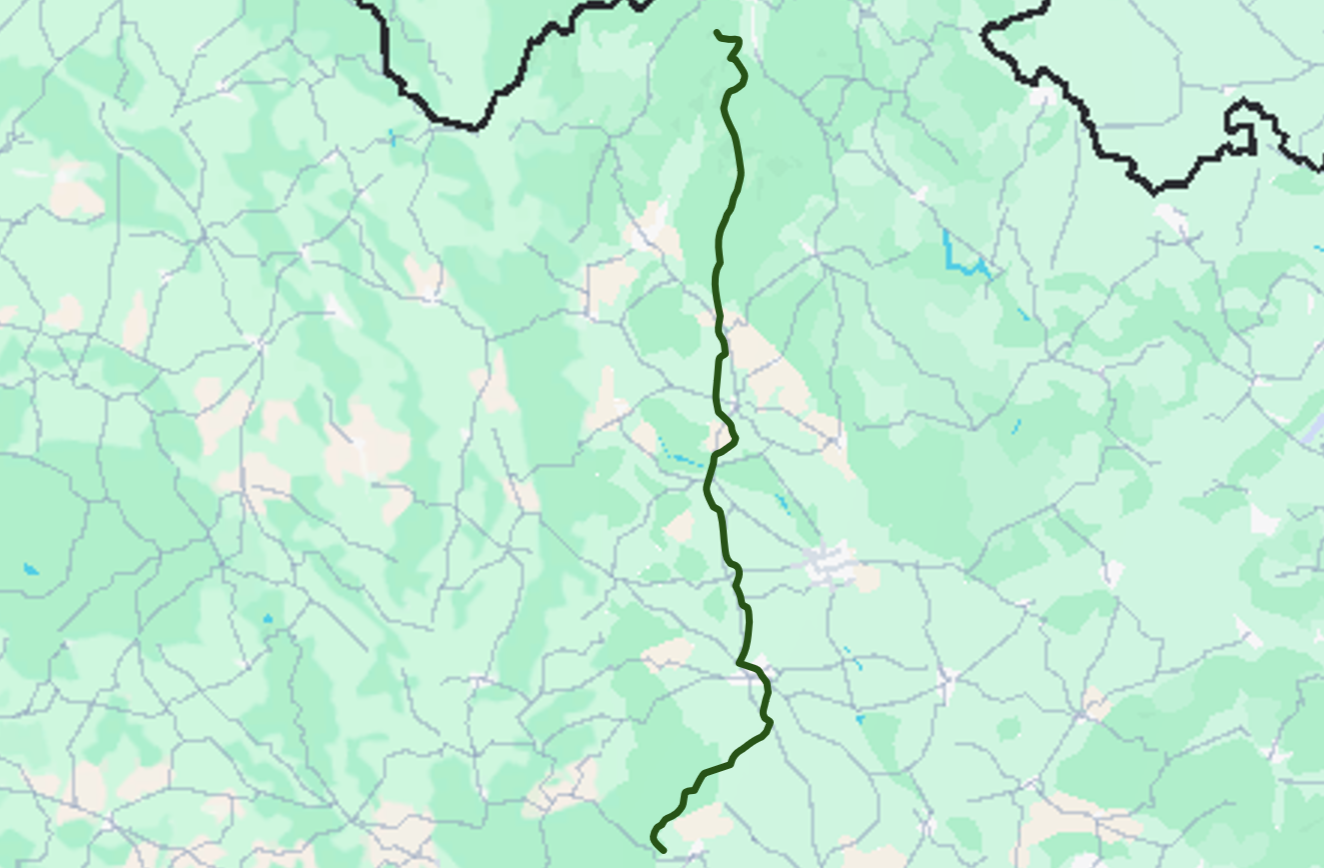
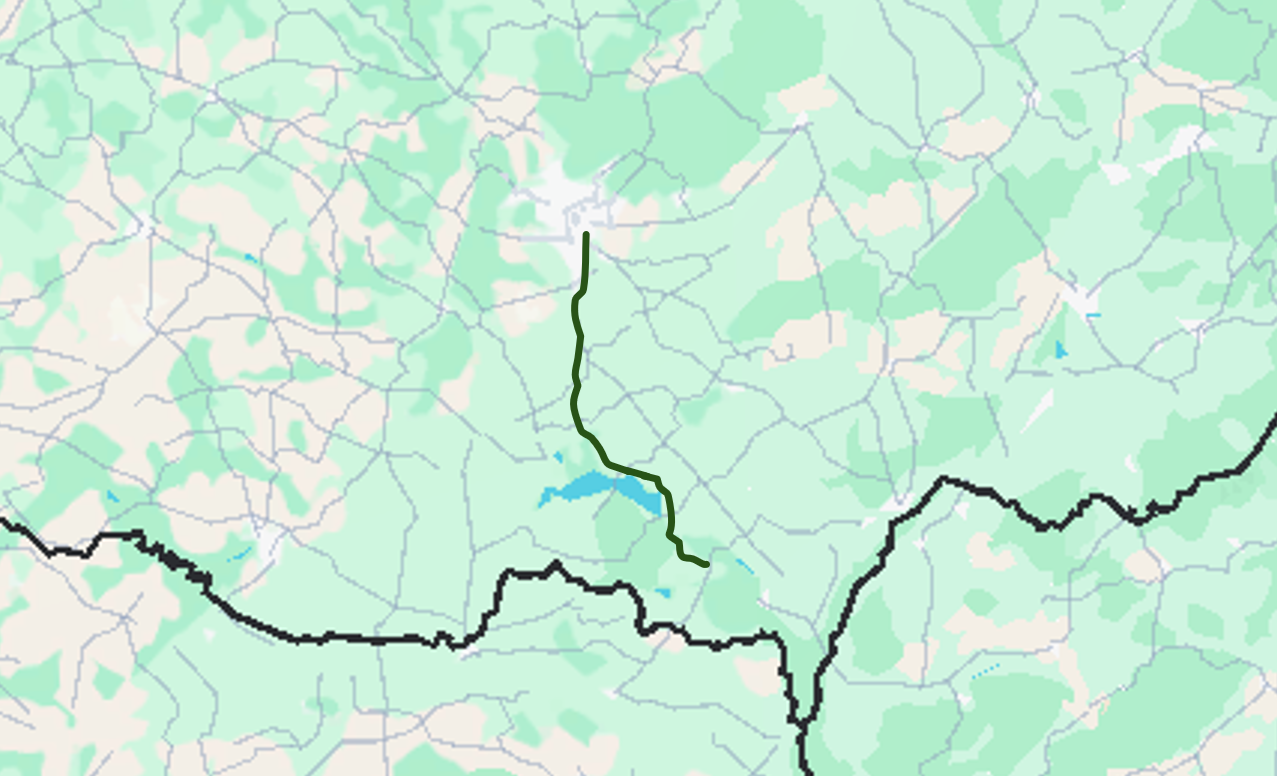
Velký změny přicházejí **šílené**
- Nový font, větší fontová kompatibilita
- Přidána navigace cestou
- Ještěd byl zaměněn za Zámek Lednice
- Odstraněny styly, které k ničemu nebyly přiřazeny
- Přidáno více fotografií z místa/trasy
- Navigaci lze spustit přes Start button u místa
- Ještě něco, ale už nevím

diff --git a/info_misto.html b/info_misto.html
@@ -21,39 +21,41 @@
 
         <div class="content content-full">
             <div class="mistoFotka">
-                <img src="icons/Ještěd.jpg" class="mistoFotkaObj">
-                <img src="icons/Ještěd.jpg" class="mistoFotkaObj YFlipped">
+                <img src="icons/Lednice.jpg" class="mistoFotkaObj">
             </div>
             <div class="mistoContent">
-                <div class="mistoNazev">Ještěd</div>
+                <div class="mistoNazev">Zámek Lednice</div>
                 <div class="mistoPopis">
-                    Ještěd je výrazná dominanta u Liberce s unikátním televizním vysílačem a hotelem, oceněným prestižní architektonickou cenou. 
-                    Stavba, dílo Karla Hubáčka, se stala symbolem města i celého regionu. 
-                    Z vrcholu se otevírají krásné výhledy na Liberec, Jizerské hory i Krkonoše. Ještěd je oblíbeným cílem turistů po celý rok, v létě pro pěší a cyklistiku, v zimě pro lyžování a zimní sporty.
+                    Státní zámek Lednice je vrcholnou ukázkou anglické novogotiky a je na seznamu kulturních památek UNESCO. 
+                    Komplex proslul unikátními dřevořezbami v interiérech, historickým palmovým skleníkem a rozsáhlým parkem s romantickými stavbami. Lokalita nabízí propojení šlechtické architektury, vodních tras a špičkového zahradnictví.
                 </div>
                 <div class="mistoIkony">
                     <div class="mistoIkona">
                         <img src="icons/narocnost_2.png"><div class="infoIkonaText">Náročnější trasa</div>
                     </div>
                     <div class="mistoIkona">
-                        <img src="icons/vzdalenost.png"><div class="infoIkonaText">83 km dlouhá trasa (přibližně 11 hodin)</div>
+                        <img src="icons/vzdalenost.png"><div class="infoIkonaText">Přibližná délka trasy je 55 km (12 hodin)</div>
                     </div>
                 </div>
                 <div class="mistoFotky">
                     <img src="icons/EXAMPLE_TRASY_ještěd.png">
                     <img src="icons/VYSKA_GRAF_EXAMPLE.png">
+                    <img src="icons/Lednice-foto.jpg">
+                    <img src="icons/Lednice-Hustopece.jpg">
+                    <img src="icons/Lednice-Nove-Mlyny.jpg">
+                    <img src="icons/Lednice-rozhledna.jpg">
                 </div>
                 <div class="line"></div>
                 <div class="mistoButtons">
                     <button class="button buttonFix" data-func="ulozit">Uložit</button>
                     <button class="button buttonFix" data-func="vyhledat_misto">Vyhledat v komunitě</button>
+                    <button class="button buttonFix" data-func="misto_mapa">Zobrazit na mapě</button>
                     <button class="button buttonFix" data-func="misto_komunita_pridat">Přidat poznámku</button>
                 </div><br>
                 <div class="mistoPopis">
                     <b>Popis trasy</b><br>
-                    Trasa začíná na parkovišti u dolní stanice lanovky a nejprve vede po asfaltové silnici směrem k lesu. První úsek je pohodlný a vhodný i pro méně zkušené turisty.
-                    Po zhruba kilometru se cesta mění na zpevněnou lesní stezku s drobnými kameny a kořeny, kde je potřeba dávat pozor na nerovnosti. Ve střední části narazíte na několik prudších stoupání a místy hrubší povrch, zejména po dešti může být kluzký.
-                    Poslední úsek vede otevřenou loukou s vyšší trávou a krásnými výhledy – doporučuje se pevná obuv a kontrola proti klíšťatům. Závěrečných pár set metrů je opět po upravené cestě až k vrcholu s rozhlednou a restaurací.
+                    Trasa začíná u brněnského hlavního nádraží a vede přes Židlochovice a Hustopeče, přičemž střídá cyklostezky s polními cestami. Většina cesty kopíruje asfaltové úseky mezi vinicemi, kde hrozí dlouhá expozice slunci bez možnosti stínu. 
+                    Kritickým místem je okolí Novomlýnských nádrží a lužní lesy u Bulhar, kde po deštích bývá hluboké bahno a zvýšený výskyt komárů. Putování končí po cca 55 km příchodem k čestnému nádvoří zámku Lednice.
                     <br><br>
                     <b>Poznámky uživatelů</b><br><br>
 
@@ -109,7 +111,7 @@
             <button class="widget circle" title="Vybavení na trasu" data-func="misto_vybaveni">
                 <img src="icons/triko.svg">
             </button>
-            <button class="widget" title="Spustit průvodce trasou">
+            <button class="widget" title="Spustit průvodce trasou" data-func="misto_navigace">
                   Start 
                 <img src="icons/startSipka.png">
             </button>

diff --git a/style.css b/style.css
@@ -39,7 +39,7 @@
     --size-outline: 2px;
 }
 body {
-    font-family: Arial, Helvetica, sans-serif;
+    font-family: system-ui, -apple-system, BlinkMacSystemFont, 'Segoe UI', Roboto, Oxygen, Ubuntu, Cantarell, 'Open Sans', 'Helvetica Neue', sans-serif;
     margin: 0;
     padding: 0;
     overflow: hidden;
@@ -47,6 +47,10 @@ body {
 }
 body:hover {
     cursor: default !important; /* DELETE! */
+}
+
+body, button, input, select, textarea {
+    font-family: system-ui, -apple-system, BlinkMacSystemFont, 'Segoe UI', Roboto, Oxygen, Ubuntu, Cantarell, 'Open Sans', 'Helvetica Neue', sans-serif;
 }
 
 .ui {
@@ -84,8 +88,8 @@ body:hover {
 
 .mapaFunc .mapClickableLink {
     position: absolute;
-    top: 221px;           /* odsazení od horního okraje obrázku */
-    right: 239px;          /* odsazení od levého okraje obrázku */
+    top: 422px;           /* odsazení od horního okraje obrázku */
+    right: 288px;          /* odsazení od levého okraje obrázku */
 }
 
 .mapClickableLink {
@@ -424,7 +428,6 @@ body:hover {
 }
 
 .button {
-    border: none;
     height: var(--size-button-small);
     line-height: calc(var(--size-button-small));
     border-radius: 50px;
@@ -439,10 +442,13 @@ body:hover {
     cursor: default; /* V DESKTOPOVE VERZI NAHRADIT POINTEREM! */
     position: relative;
     white-space: nowrap;
+    border: var(--size-outline) solid var(--preset-button-outline);
 }
 .buttonFix {
-    border: var(--size-outline) solid var(--preset-button-outline);
     line-height: calc(var(--size-button-small)/3);
+}
+.buttonCircle {
+    aspect-ratio: 1 / 1;
 }
 .button:hover {
     filter: brightness(95%);
@@ -455,6 +461,9 @@ body:hover {
 .buttonBase:checked + .button {
     background: var(--preset-button-selected2);
     color: white;
+}
+.buttonBase:checked + .button img {
+    filter: brightness(1000%);
 }
 .button img {
     height: 90%;
@@ -478,9 +487,6 @@ body:hover {
     left: 50%;
     transform: translateX(-50%);
     gap: 20px;
-}
-.user-box-button-fix {
-    line-height: calc(var(--size-button-small)/2);
 }
 .userIcon {
     grid-column: 1;
@@ -710,6 +716,8 @@ body:hover {
     overflow-x: auto;
     scrollbar-width: none;
     overflow-y: hidden;
+    align-items: center;
+    padding: 5px;
 }
 
 .widgetBar {
@@ -1128,4 +1136,63 @@ body:hover {
 
 .VYPALIT {
     filter: brightness(1000%);
+}
+
+.nav-photo {
+    position: fixed;
+    width: 100vw;
+    height: 100vh;
+    top:0;
+    left: 0;
+    z-index: -1;
+}
+.nav-photo img {
+    position: fixed;
+    object-fit: cover;
+    width: 100vw;
+    height: 100vh;
+    top:0;
+    left: 0;
+}
+
+.nav-box {
+    gap: 30px;
+    position: fixed;
+    bottom: 20px;
+    left: 50%;
+    transform: translateX(-50%);
+    width: max-content;
+    display: flex;
+    flex-direction: column;
+    justify-content: center;
+    align-items: center;
+    background: var(--preset-bg);
+    padding: 20px;
+    border-radius: 50px;
+    box-shadow: var(--preset-shadow);
+    border: var(--size-outline) solid var(--preset-button-outline);
+    width: 400px;
+    bottom: 50px;
+}
+.nav-box .part {
+    display: flex;
+    align-items: center;
+    justify-content: center;
+    gap: 10px;
+    color: rgba(var(--color-text-darker), 1);
+    font-size: 25px;
+}
+.nav-box .part img {
+    height: 100px;
+}
+.nav-widgets {
+    position: relative;
+    display: flex;
+    gap: 15px;
+    height: 65px;
+    left: 50%;
+    transform: translateX(-50%);
+}
+.nav-widgets .widget img {
+    height: 40px;
 }

diff --git a/planovac.html b/planovac.html
@@ -48,20 +48,25 @@
             </div>
             <br>
             <div class="mistoButtons">
-                    <button class="button buttonFix" data-func="ulozit">Uložit</button>
-                    <button class="button buttonFix" data-func="vyhledat_misto">Vyhledat v komunitě</button>
+                <!-- <button class="button buttonFix selected" data-func="ulozit" title="Pěšky"><img src="icons/pesky.svg" class="VYPALIT"></button>
+                <button class="button buttonFix" data-func="ulozit" title="Na kole"><img src="icons/nakole.svg"></button> -->
+                <input type="radio" name="typ" data-func="ulozeno_sort" value="pesky" class="disabled buttonBase" id="pesky" checked><label for="pesky" class="button buttonCircle"><img src="icons/pesky.svg" class="typTrasyImg"></label>
+                <input type="radio" name="typ" data-func="ulozeno_sort" value="nakole" class="disabled buttonBase" id="nakole"><label for="nakole" class="button buttonCircle"><img src="icons/nakole.svg" class="typTrasyImg"></label>
+
+                <button class="button buttonFix" data-func="ulozit">Uložit</button>
+                <button class="button buttonFix" data-func="vyhledat_misto">Vyhledat v komunitě</button>
             </div>
             <br>
             <div class="line"></div>
 
             <button class="info-box info-box-button" data-func="misto_info">
-                <div class="ib-placePhotoGroup"><div class="ib-placeName">Ještěd</div>
-                <img src="icons/Ještěd.jpg" class="ib-placePhoto"></div>
-                <div class="ib-placeInfo">Hora s unikátním televizním vysílačem a hotelem.</div>
+                <div class="ib-placePhotoGroup"><div class="ib-placeName">Zámek Lednice</div>
+                <img src="icons/Lednice.jpg" class="ib-placePhoto"></div>
+                <div class="ib-placeInfo">Novogotický státní zámek na seznamu UNESCO.</div>
                 <div class="ib-bottomPart">
                 <br><br>
                 <div class="ib-more">
-                <div class="ib-length">183 km</div>
+                <div class="ib-length">55 km</div>
                 <img src="icons/narocnost_2.png" class="ib-narocnost"></div>
                 </div>
             </button>
@@ -75,7 +80,7 @@
             <button class="widget circle" title="Vybavení na trasu" data-func="misto_vybaveni">
                 <img src="icons/triko.svg">
             </button>
-            <button class="widget" title="Spustit průvodce trasou">
+            <button class="widget" title="Spustit průvodce trasou" data-func="misto_navigace">
                   Start 
                 <img src="icons/startSipka.png">
             </button>

diff --git a/navigace.html b/navigace.html
@@ -1,0 +1,59 @@
+<!DOCTYPE html>
+<html lang="cs">
+<head>
+    <meta charset="UTF-8">
+    <meta name="viewport" content="width=device-width, initial-scale=1.0">
+    <title>Průvodce trasou | Sherpa 9000</title>
+    <link rel="stylesheet" href="style.css">
+    <script src="main.js" defer></script>
+    <link rel="manifest" href="manifest.json">
+    <link rel="icon" href="APP-ICON-OG.png" type="image/png">
+</head>
+<body>
+    <div class="backmap"><img src="mapa.png" class="mapImg"></div>
+    <div class="ui">
+
+        <div class="topBox">
+            <button class="topButton" data-func="back" title="Zpět"><img src="icons/back.png" class="topIcon"></button>
+            <div class="topTitle">Zámek Lednice</div>
+            <button class="topButton hidden" data-func="" title=""><img src="" class="topIcon"></button>
+        </div>
+
+        <div class="nav-photo">
+            <img src="icons/EXAMPLE-NAVIGACE.jpg">
+        </div>
+        <div class="nav-box">
+            <div class="part">
+                <img src="icons/nav-vpred.png">
+                Jděte 1,5 km vpřed a potom odbočte doleva.
+            </div>
+            <div class="part">
+                <div class="nav-widgets">
+                    <button class="widget" title="Počasí" data-func="misto_pocasi">
+                        <img src="icons/pocasi_polojasno.svg">
+                        19°C
+                    </button>
+                    <button class="widget circle" title="Poznámky" data-func="nav_poznamky">
+                        <img src="icons/danger.svg">
+                    </button>
+                    <button class="widget circle" title="Pozastavit" data-func="nav_pozastavit">
+                        <img src="icons/pause.svg">
+                    </button>
+                    <button class="widget circle" title="Další instrukce" data-func="nav_mapa">
+                        <img src="icons/mapaIkona.svg" class="VYPALIT">
+                    </button>
+                </div>
+            </div>
+        </div>
+    </div>
+
+<script>
+// kvuli tomu, aby chrome uznal naši aplikaci jako nainstalovatelnou aplikaci
+if ('serviceWorker' in navigator) {
+  navigator.serviceWorker.register('/sw.js')
+    .then(() => console.log('SW registered'))
+    .catch(err => console.log('SW error', err));
+}
+</script>
+</body>
+</html>

diff --git a/main.js b/main.js
@@ -46,7 +46,8 @@ document.addEventListener("DOMContentLoaded", () => {
           "photo": "Ještěd.jpg",
           "info": "Ještěd je liberecká dominanta s unikátním televizním vysílačem a hotelem, který získal prestižní architektonickou cenu.",
           "vzdalenost": 22,
-          "pocetVyletu": 15,
+          "detailInfo": "n/a",
+          "popisTrasy": "n/a",
           "statistiky": {}
         },
         "20": {
@@ -54,7 +55,17 @@ document.addEventListener("DOMContentLoaded", () => {
           "photo": "Krkonoše.jpg",
           "info": "Krkonoše jsou nejvyšší české pohoří s národním parkem a Sněžkou, která měří 1603 metrů.",
           "vzdalenost": 3251,
-          "pocetVyletu": 257,
+          "detailInfo": "n/a",
+          "popisTrasy": "n/a",
+          "statistiky": {}
+        },
+        "30": {
+          "name": "Zámek Lednice",
+          "photo": "Ještěd.jpg",
+          "info": "Novogotický státní zámek na seznamu UNESCO.",
+          "vzdalenost": 55,
+          "detailInfo": "n/a",
+          "popisTrasy": "n/a",
           "statistiky": {}
         }
       }
@@ -114,6 +125,9 @@ const Actions = {
   },
   misto_pocasi() {
     open("pocasi_misto.html");
+  },
+  misto_navigace() {
+    open("navigace.html");
   },
   naplanovat() {
     open("planovac.html");

diff --git a/ulozeno.html b/ulozeno.html
@@ -28,6 +28,18 @@
             </div>
             <br>
             <button class="info-box info-box-button" data-func="misto_info">
+                <div class="ib-placePhotoGroup"><div class="ib-placeName">Zámek Lednice</div>
+                <img src="icons/Lednice.jpg" class="ib-placePhoto"></div>
+                <div class="ib-placeInfo">Novogotický státní zámek na seznamu UNESCO.</div>
+                <div class="ib-bottomPart">
+                <br><br>
+                <div class="ib-more">
+                <div class="ib-length">55 km</div>
+                <img src="icons/narocnost_2.png" class="ib-narocnost"></div>
+                </div>
+            </button>
+            <br>
+            <button class="info-box info-box-button" data-func="misto_info">
                 <div class="ib-placePhotoGroup"><div class="ib-placeName">Ještěd</div>
                 <img src="icons/Ještěd.jpg" class="ib-placePhoto"></div>
                 <div class="ib-placeInfo">Hora s unikátním televizním vysílačem a hotelem.</div>

diff --git a/notRegistered.html b/notRegistered.html
@@ -24,7 +24,7 @@
                 <img src="icons/user.png" class="userIcon">
                 <div class="userContent">
                     <div class="userName">Nepřihlášený uživatel</div>
-                    <button class="button selected user-box-button-fix" data-func="DEMOprihlasitse">Přihlásit se</button>
+                    <button class="button selected buttonFix" data-func="DEMOprihlasitse">Přihlásit se</button>
                 </div>
             </div>
             <br>

diff --git a/pocasi_misto.html b/pocasi_misto.html
@@ -150,7 +150,7 @@
             <button class="widget circle" title="Vybavení na trasu" data-func="misto_vybaveni">
                 <img src="icons/triko.svg">
             </button>
-            <button class="widget" title="Spustit průvodce trasou">
+            <button class="widget" title="Spustit průvodce trasou" data-func="misto_navigace">
                   Start 
                 <img src="icons/startSipka.png">
             </button>

diff --git a/vybaveni_misto.html b/vybaveni_misto.html
@@ -277,7 +277,7 @@
             <button class="widget circle wSelected" title="Vybavení na trasu" data-func="back">
                 <img src="icons/triko.svg">
             </button>
-            <button class="widget" title="Spustit průvodce trasou">
+            <button class="widget" title="Spustit průvodce trasou" data-func="misto_navigace">
                   Start 
                 <img src="icons/startSipka.png">
             </button>
